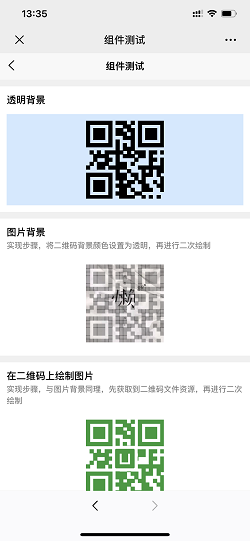
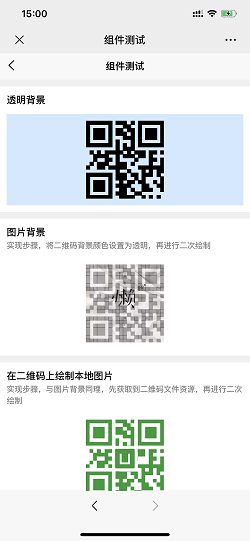
Update to 1.0.5

diff --git a/pages/component/qrcode/qrcode.vue b/pages/component/qrcode/qrcode.vue
@@ -21,11 +21,21 @@
 
 		<view class="block">
 			<view class="title">
-				在二维码上绘制图片
+				在二维码上绘制本地图片
 				<view class="tips">实现步骤，与图片背景同理，先获取到二维码文件资源，再进行二次绘制</view>
 			</view>
 			<view class="component">
 				<uni-qrcode cid="qrcode2307" text="uQRCode" foregroundColor="#2b9939" logo="/static/logo.png" makeOnLoad @makeComplete="qrcode2307Complete" />
+			</view>
+		</view>
+
+		<view class="block">
+			<view class="title">
+				在二维码上绘制网络图片
+				<view class="tips">实现步骤，与图片背景同理，先获取到二维码文件资源，再进行二次绘制</view>
+			</view>
+			<view class="component">
+				<uni-qrcode cid="qrcode1446" text="uQRCode" foregroundColor="#2b9939" logo="https://img-cdn-qiniu.dcloud.net.cn/uploads/avatar/000/72/20/93_avatar_max.jpg" makeOnLoad @makeComplete="qrcode1446Complete" />
 			</view>
 		</view>
 
@@ -79,6 +89,9 @@
 				console.log(e)
 			},
 			qrcode2307Complete(e) {
+				console.log(e)
+			},
+			qrcode1446Complete(e) {
 				console.log(e)
 			}
 		}

diff --git a/pages/index/index.vue b/pages/index/index.vue
@@ -11,8 +11,8 @@
 		</view>
 		<input class="input" v-model="qrcodeText" placeholder="输入内容生成二维码" />
 		<button class="button" type="primary" @tap="make()">生成二维码</button>
-		<button class="button" type="primary" @tap="component()">自定义组件</button>
-		<button class="button" type="primary" @tap="poster()">二维码海报</button>
+		<button class="button" type="primary" @tap="toComponent()">自定义组件</button>
+		<button class="button" type="primary" @tap="toPoster()">二维码海报</button>
 	</view>
 </template>
 
@@ -50,12 +50,12 @@
 					}
 				})
 			},
-			component() {
+			toComponent() {
 				uni.navigateTo({
 					url: '/pages/component/qrcode/qrcode'
 				})
 			},
-			poster() {
+			toPoster() {
 				uni.navigateTo({
 					url: '/pages/poster/poster'
 				})
@@ -90,6 +90,10 @@
 		text-align: center;
 	}
 
+	.canvas canvas {
+		margin: 0 auto;
+	}
+
 	.image {
 		width: 258rpx;
 		margin-top: 50rpx;
@@ -117,7 +121,7 @@
 		width: 690rpx;
 		margin: 10rpx;
 	}
-	
+
 	.button:last-child {
 		margin-bottom: 50rpx;
 	}
